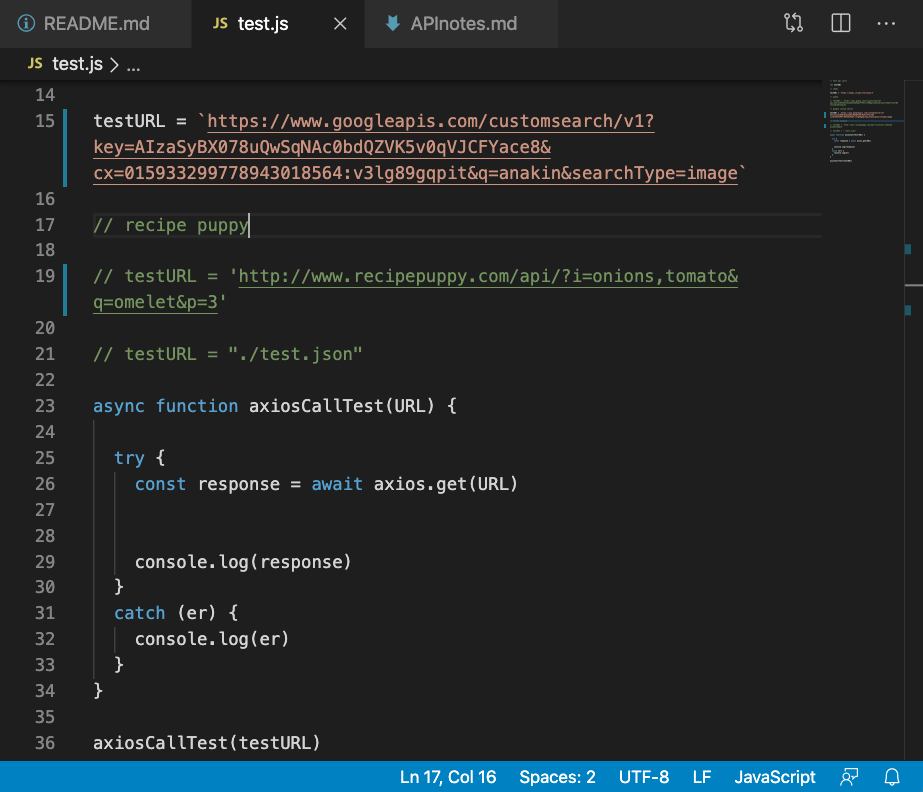
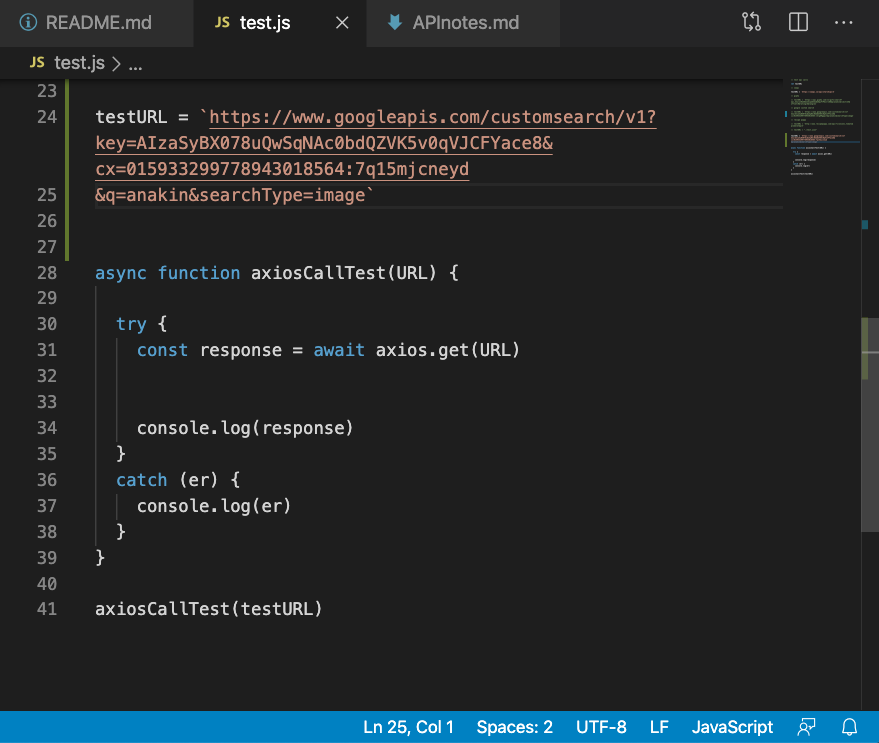
new screenshots of google cse endpoint

diff --git a/test.js b/test.js
@@ -12,13 +12,18 @@ testURL = `https://swapi.co/api/starships/3`
 
 // google custom search
 
-testURL = `https://www.googleapis.com/customsearch/v1?key=AIzaSyBX078uQwSqNAc0bdQZVK5v0qVJCFYace8&cx=015933299778943018564:v3lg89gqpit&q=anakin&searchType=image`
+// testURL = `https://www.googleapis.com/customsearch/v1?key=AIzaSyBX078uQwSqNAc0bdQZVK5v0qVJCFYace8&cx=015933299778943018564:v3lg89gqpit&q=anakin&searchType=image`
 
 // recipe puppy
 
 // testURL = 'http://www.recipepuppy.com/api/?i=onions,tomato&q=omelet&p=3'
 
 // testURL = "./test.json"
+
+
+testURL = `https://www.googleapis.com/customsearch/v1?key=AIzaSyBX078uQwSqNAc0bdQZVK5v0qVJCFYace8&cx=015933299778943018564:7q15mjcneyd
+&q=anakin&searchType=image`
+
 
 async function axiosCallTest(URL) {
 
